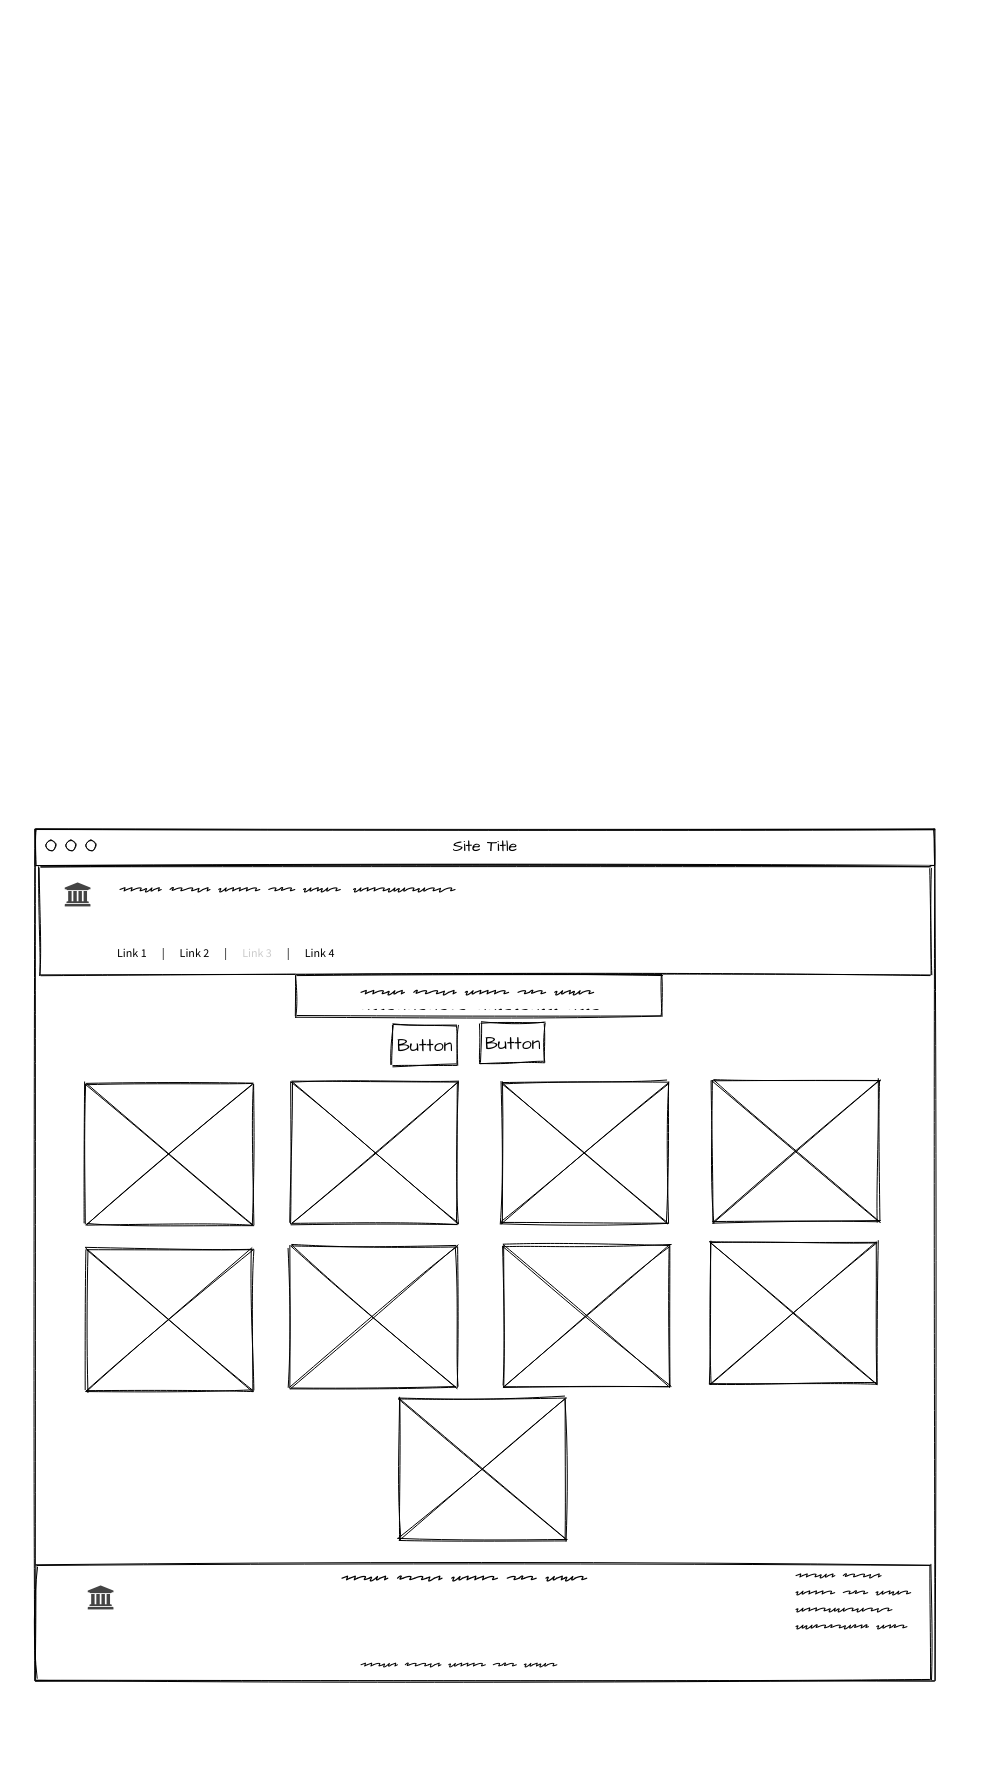
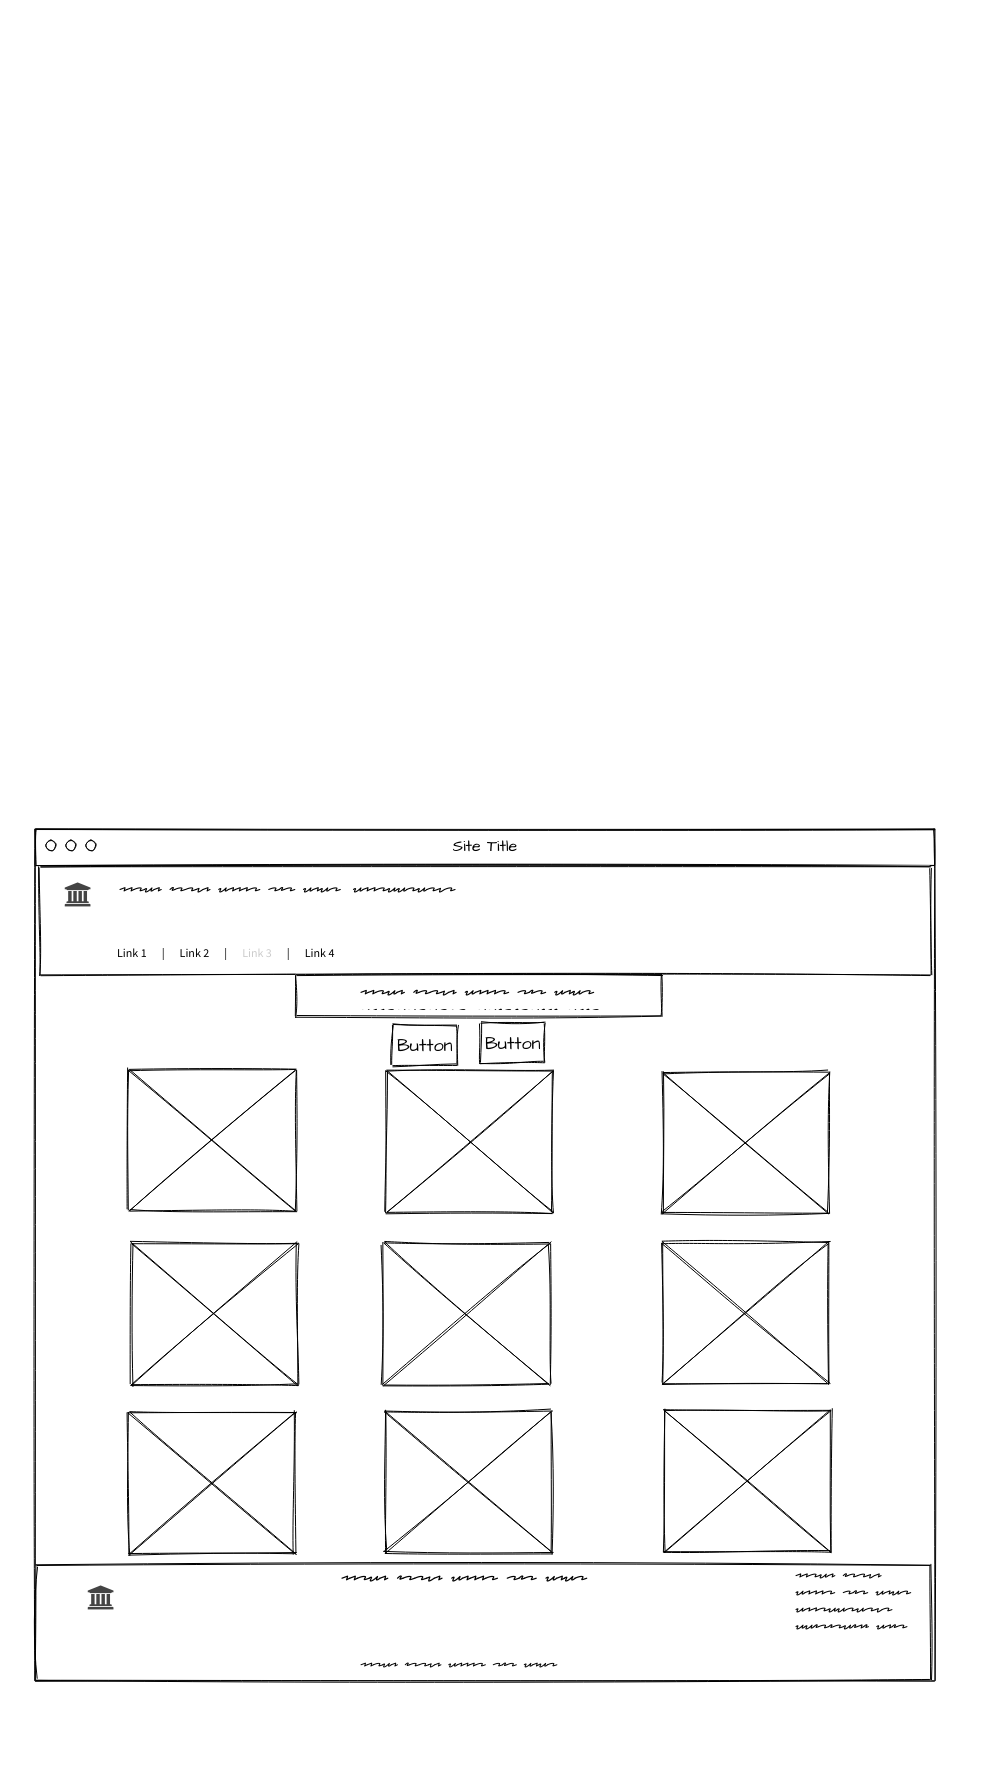
wire-frame

diff --git a/lesson9/frames.html b/lesson9/frames.html
@@ -1,0 +1,28 @@
+<!DOCTYPE html>
+<html lang="en">
+  <head>
+    <meta charset="UTF-8" />
+    <meta http-equiv="X-UA-Compatible" content="IE=edge" />
+    <meta name="viewport" content="width=device-width, initial-scale=1.0" />
+    <meta name="description" content="Chamber Directory Wire Frames" />
+    <title>Wire Frame</title>
+    <link rel="stylesheet" href="styles/wire-frame.css" />
+    <!--Google Font API-->
+    <link
+      href="https://fonts.googleapis.com/css2?family=Encode+Sans&family=Lora&display=swap"
+      rel="stylesheet"
+    />
+  </head>
+  <header>
+    <h1>Wire Frames</h1>
+    <button><a href=" https://kuresti.github.io/wdd230/">Portal</a></button>
+  </header>
+  <main>
+    
+    <h2>Small View Wire Frame</h2>
+    <img src="images/mobile-card-wireframe.webp" alt="Small view wire frame">
+    <h2>Medium View Wire Frame</h2>
+    <img src="images/medium-card-wireframe.webp" alt="Medium view wire frame">
+    <h2>Large View Wire Frame</h2>
+    <img src="images/large-card-wireframe.webp" alt="Large view wire frame">
+</main>

diff --git a/chamber/directory.html b/chamber/directory.html
@@ -36,9 +36,7 @@
                     300px)"
           />
           <img
-            src="images/desertmountainlogo1.webp"
-            alt="Desert Mountain Chamber of Commerce Logo"
-          />
+            src="images/desertmountainlogo1.webp" alt="Desert Mountain Chamber of Commerce Logo">
         </picture>
         <h1>Desert Mountain Chamber of Commerce</h1>
         <p>"Where your business is our business!"</p>

diff --git a/index.html b/index.html
@@ -67,7 +67,7 @@
                 </li>
                 <li>
                     Lesson 9:
-                    <a href="lesson9/prophets.html">Prophets</a>
+                    <a href="lesson9/prophets.html">Prophets</a>|<a href="lesson9/frames.html">Wire Frames</a>
                 </li>
                 <li>
                     Lesson 10:

diff --git a/lesson9/styles/wire-frame.css b/lesson9/styles/wire-frame.css
@@ -1,0 +1,6 @@
+/*Background color for head*/
+header {
+    background-color: rgb(18, 70, 88);
+    text-align: center;
+    color: whitesmoke;
+}
